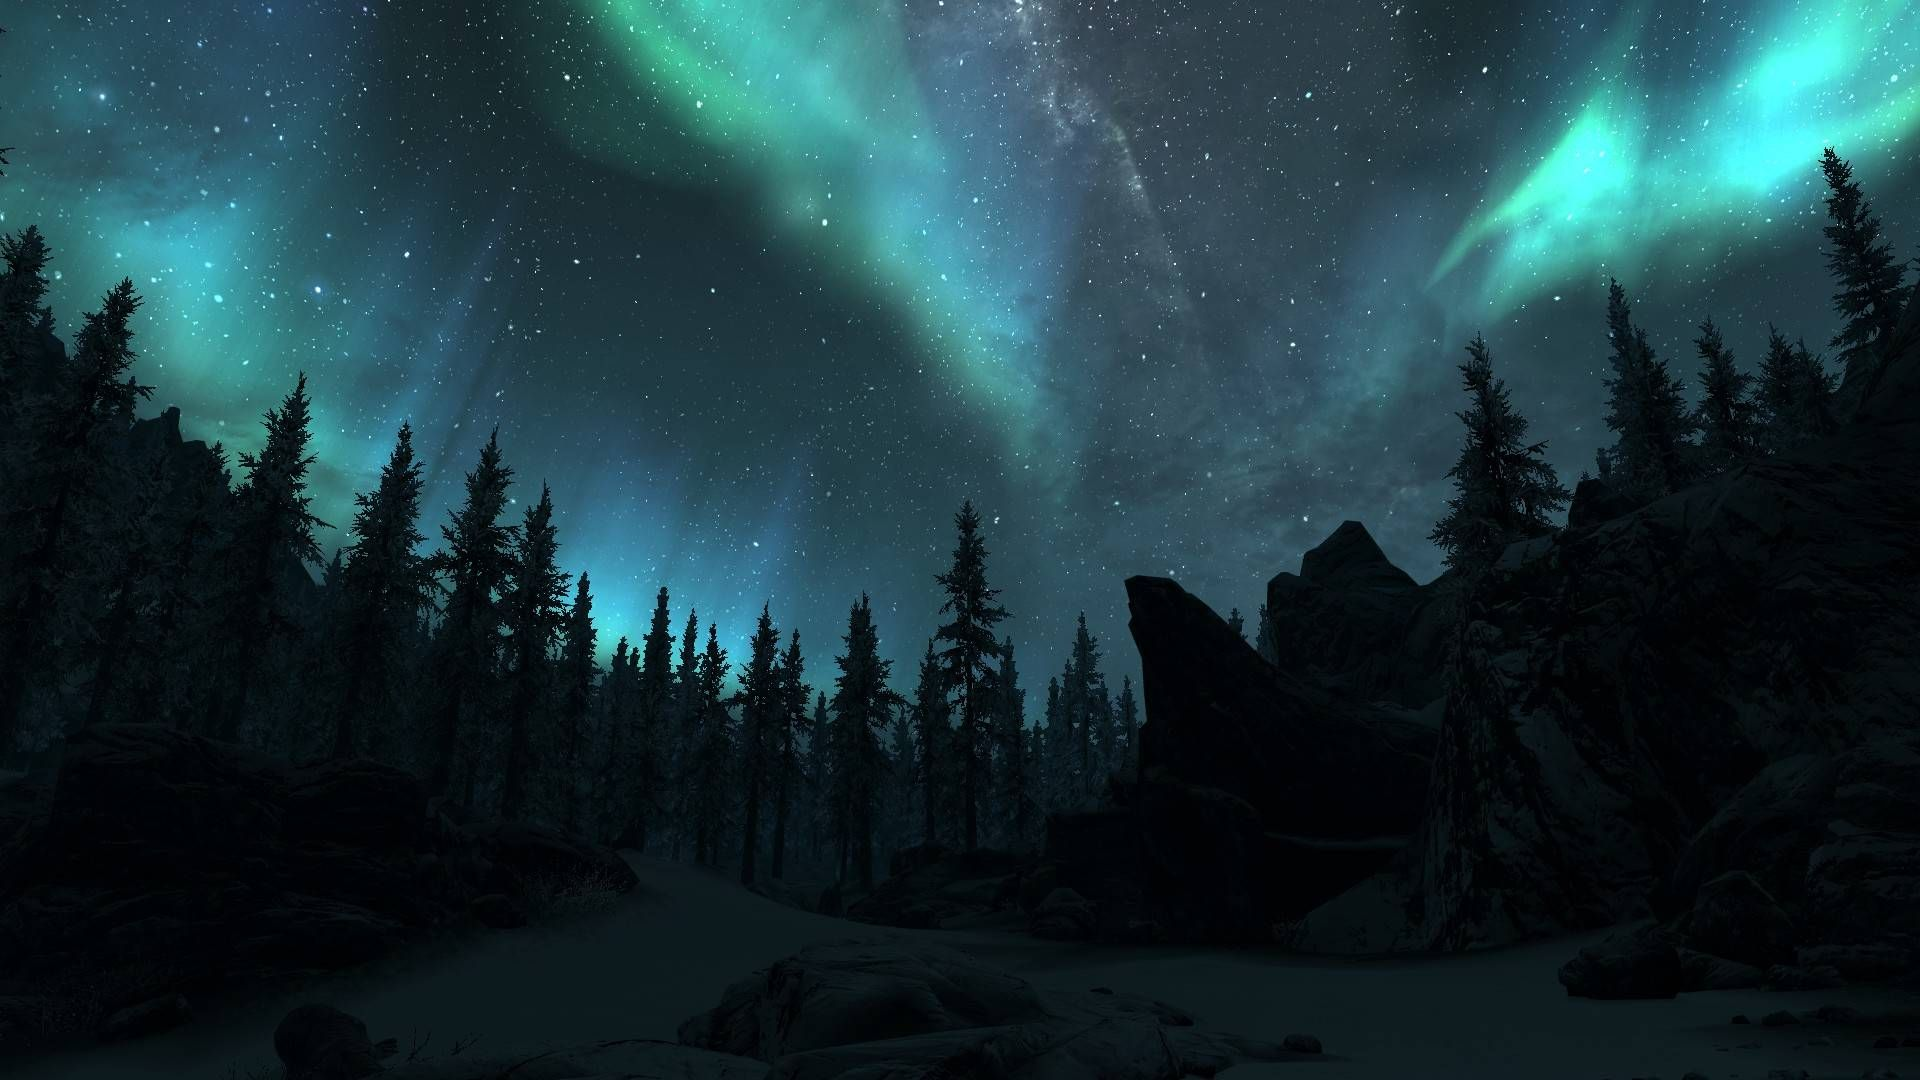
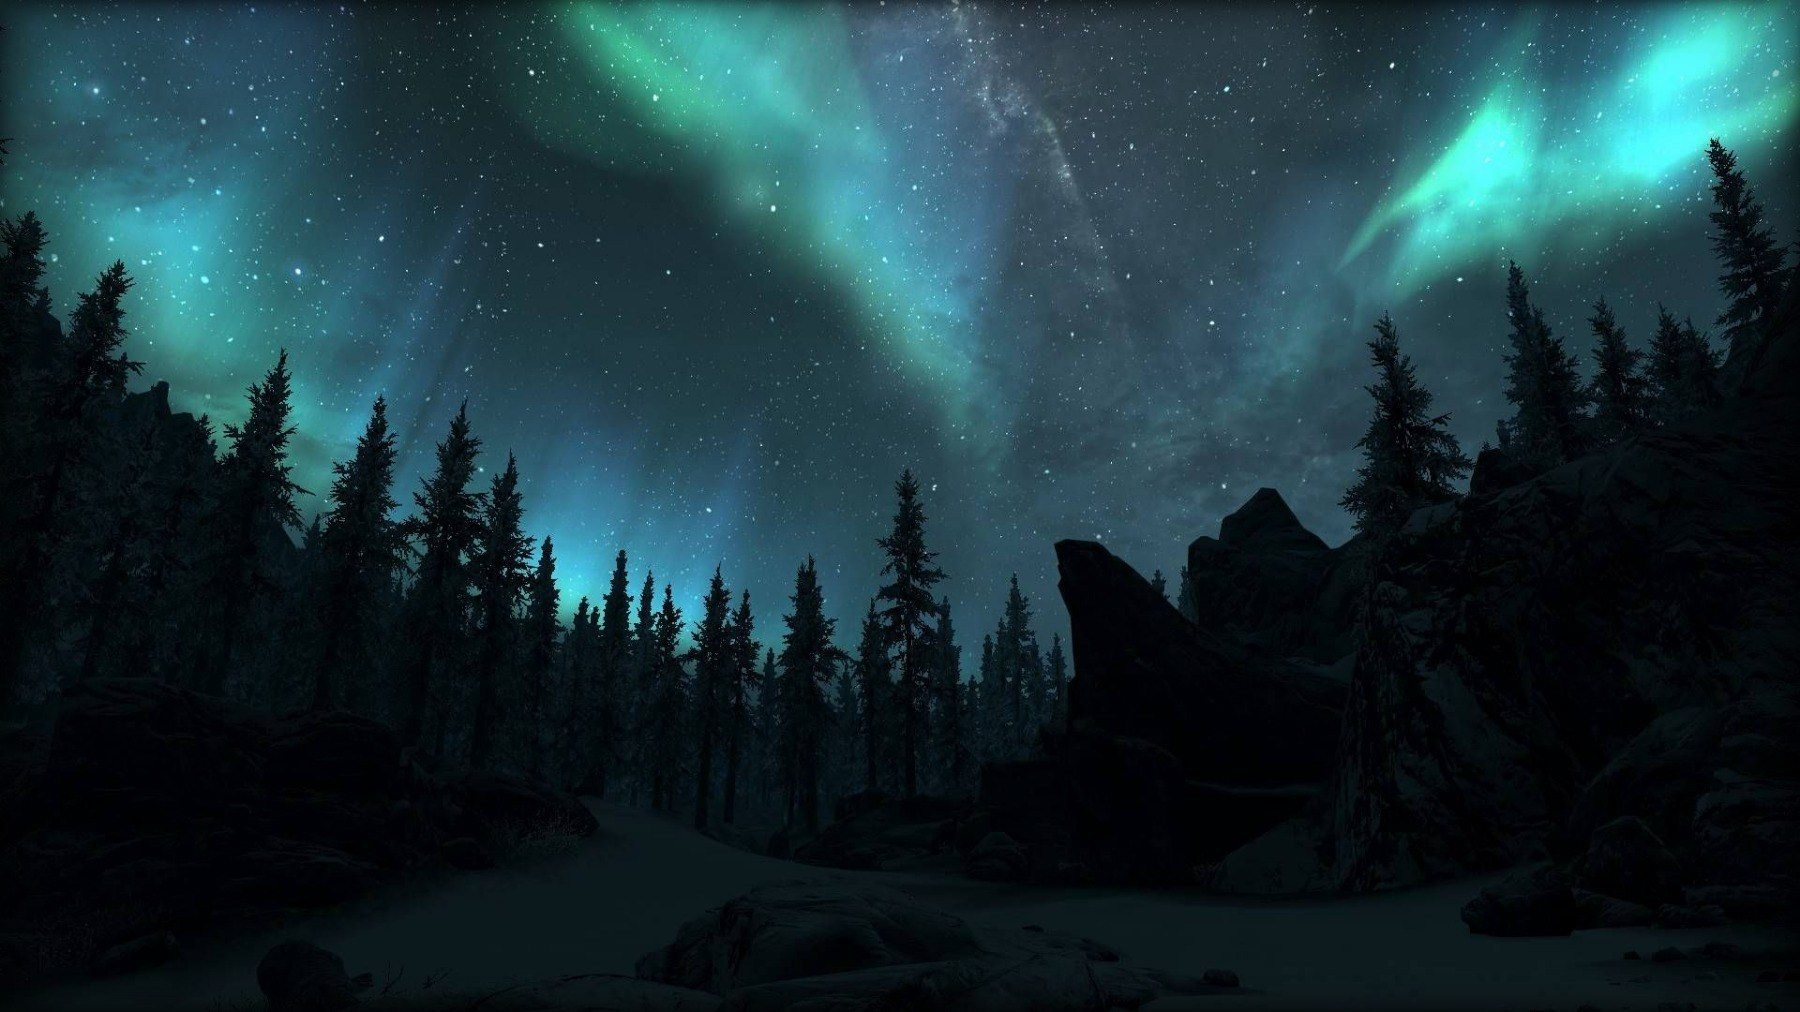
Viginette

Changed region(s): [[0.7778, 0.0, 1.0, 0.2757], [0.28, 0.0, 0.7467, 0.0306], [0.0, 0.0, 0.2178, 0.2451]]

diff --git a/index.html b/index.html
@@ -21,7 +21,7 @@
 	<title>Aaron Zhang</title>
 </head>
 <body data-spy="scroll" data-target="#sideNav" data-offset="50">
-	<div id="showcase">
+	<div id="showcase" class="viginette">
 		<div id="circle" class="wow zoomIn" data-wow-delay="0.3s">
 			<div id="showcaseText">
 				<h1 class="wow rollIn" data-wow-delay="0.5s">Hey There!</h1>

diff --git a/css/style.css b/css/style.css
@@ -76,6 +76,15 @@ h3{
 	position: relative;
 }
 
+.vignette {
+  position: fixed;
+  top: 0;
+  left: 0;
+  width: 100%;
+  height: 100%;
+  box-shadow: 0 0 200px rgba(0,0,0,0.9) inset;
+}
+
 .headerOverlay{
 	position: absolute;
 	top: 0;
